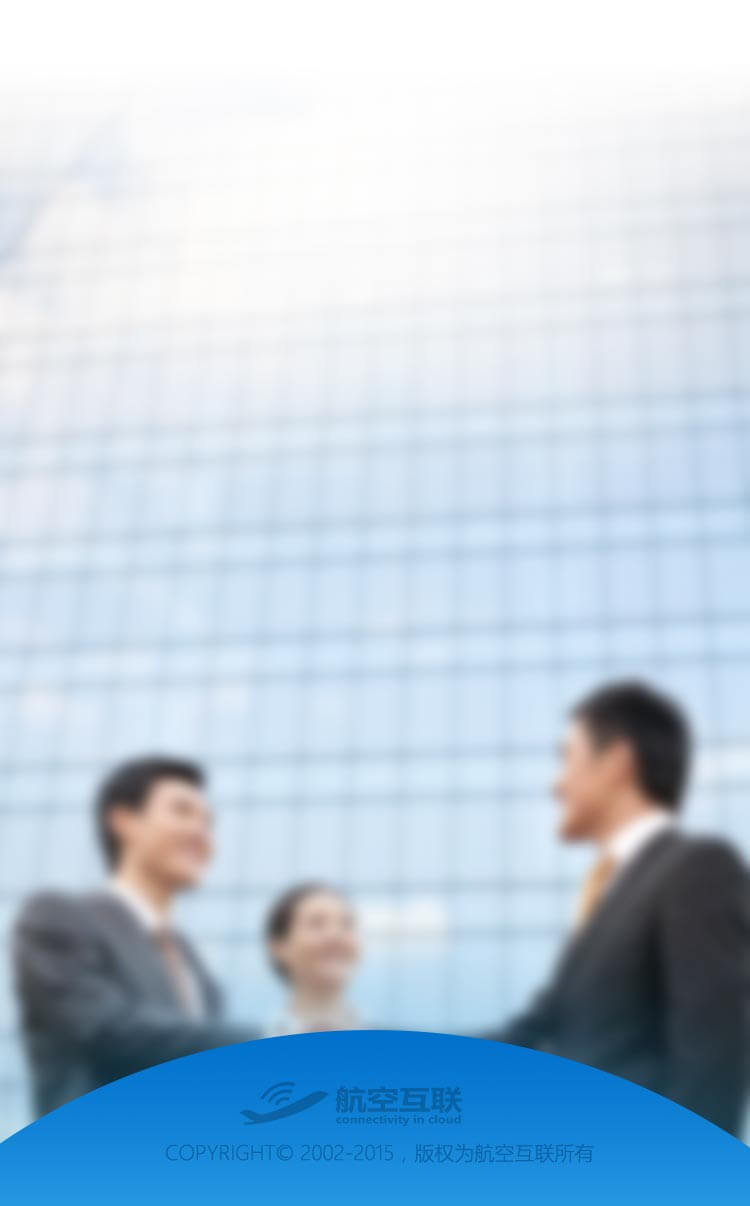
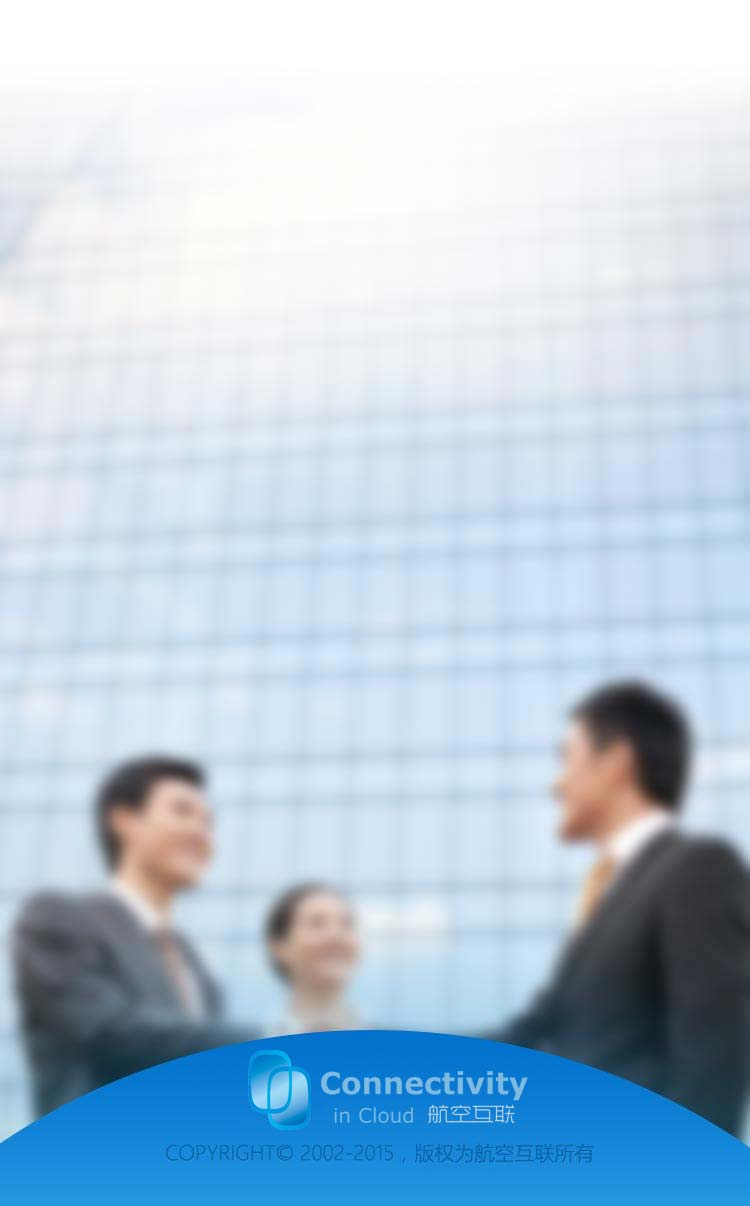
b2b v11.0.2
image

Changed region(s): [[0.3067, 0.859, 0.7053, 0.9511]]

diff --git a/hkhl/b2b.html b/hkhl/b2b.html
@@ -1045,17 +1045,17 @@ a {
 .pannels .duration_1_0s{-webkit-transition-duration:1.0s;-o-transition-duration:1.0s;transition-duration:1.0s;-webkit-animation-duration:1.0;-o-animation-duration:1.0s;animation-duration:1.0s;}
     /* custom */
     /* p1 */
-    .p1-plane{left: 212px;top:271px;width: 306px;height: 148px;}
-    .p1-logo{left: 188px;top: 460px;width: 355px;height: 113px;}
+    .p1-plane{left: 212px;top:271px;width: 306px;height: 148px;left: 247px;top:184px;}
+    .p1-logo{left: 188px;top: 460px;width: 355px;height: 113px;left: 216px;top:506px;}
     .p1-slogan{left: 191px;top:613px;width: 362px;height: 78px;}
     .p1-about{left: 255px;top:823px;width: 239px;height: 81px;}
-    .title{left:162px;top:135px;width:423px;height:138px;background-image: url(../images/title1.png);background-repeat: no-repeat;background-size: 750px auto;}
+    .title{left:162px;top:135px;width:423px;height:138px;background-image: url(../images/title2.png);background-repeat: no-repeat;background-size: 750px auto;}
     .scene-2 .title{background-position: 0 0;}
     .scene-3 .title{left: 197px;background-position: 0 -160px;}
     .scene-4 .title{left: 197px;background-position: 0 -320px;}
     .scene-5 .title{left: 205px;top:130px;width: 337px;height: 138px;background-position: 0 -480px;}
-    .img-1-plane{background-position: 0 -837px;width: 306px;height: 148px;}
-    .img-1-logo{background-position: 0 -724px;width: 355px;height: 113px;}
+    .img-1-plane{background-position: -41px -1063px;width: 238px;height: 300px;}
+    .img-1-logo{background-position: 0 -1386px;width: 313px;height: 79px;}
     .img-1-slogan{background-position: 0 -985px;width: 361px;height: 78px;}
     .img-1-about{background-position: 0 -643px;width: 239px;height: 81px;}
     /* p2 */
@@ -1383,7 +1383,7 @@ a {
     .mc-wrap-page span.page-current{background-position: 0 -62px;opacity: 1}
 
     .float-wrap-hide ~ .mc-wrap-back,.float-wrap-hide ~ .mc-wrap-page{opacity: 0;transition:opacity .2s;}
-    .float-wrap-show ~ .mc-wrap-back{opacity: 1;transition:opacity .1s .2s;}
+    .float-wrap-show ~ .mc-wrap-back{opacity: 1;transition:opacity .1s .3s;}
     .secene-sec-changing .float-wrap-show ~  .mc-wrap-back{opacity: 0;transition:opacity .2s;}
     .scene-1 .mc-wrap.mc-wrap-page,.scene-5 .mc-wrap.mc-wrap-page{opacity: 0;}
 </style>
@@ -2019,7 +2019,7 @@ a {
     var tasks = [
       "../images/bg_full.jpg",
       "../images/arrow_icon.png",
-      "../images/title1.png",
+      "../images/title2.png",
       "../images/text2.png",
       "../images/icon3.png",
       "../images/cir/cir_blue_opacity.png",
